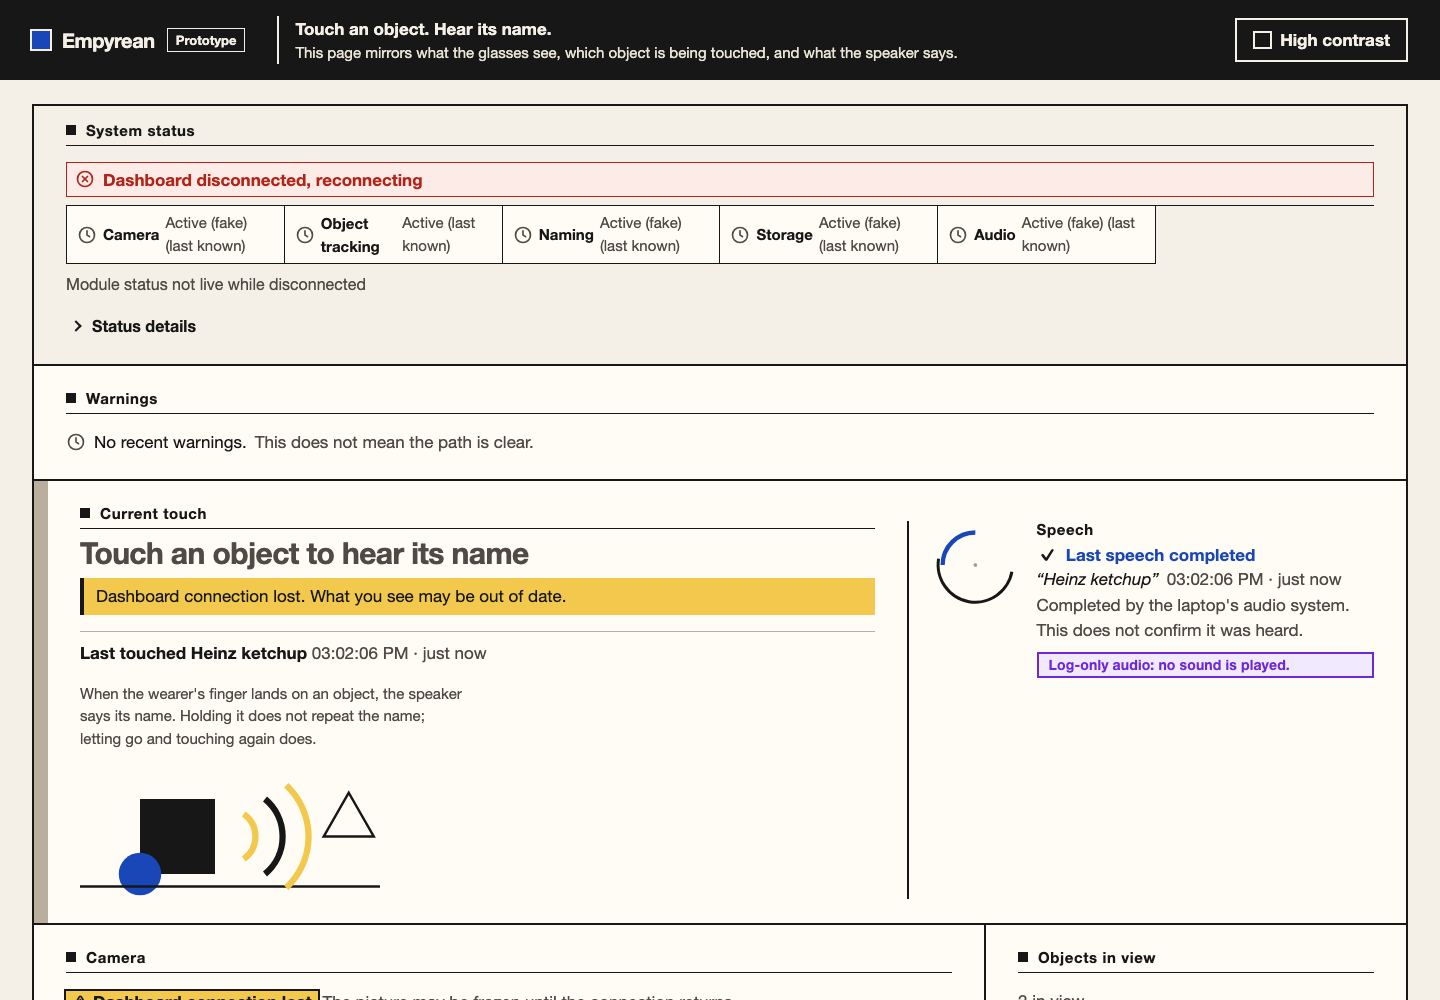
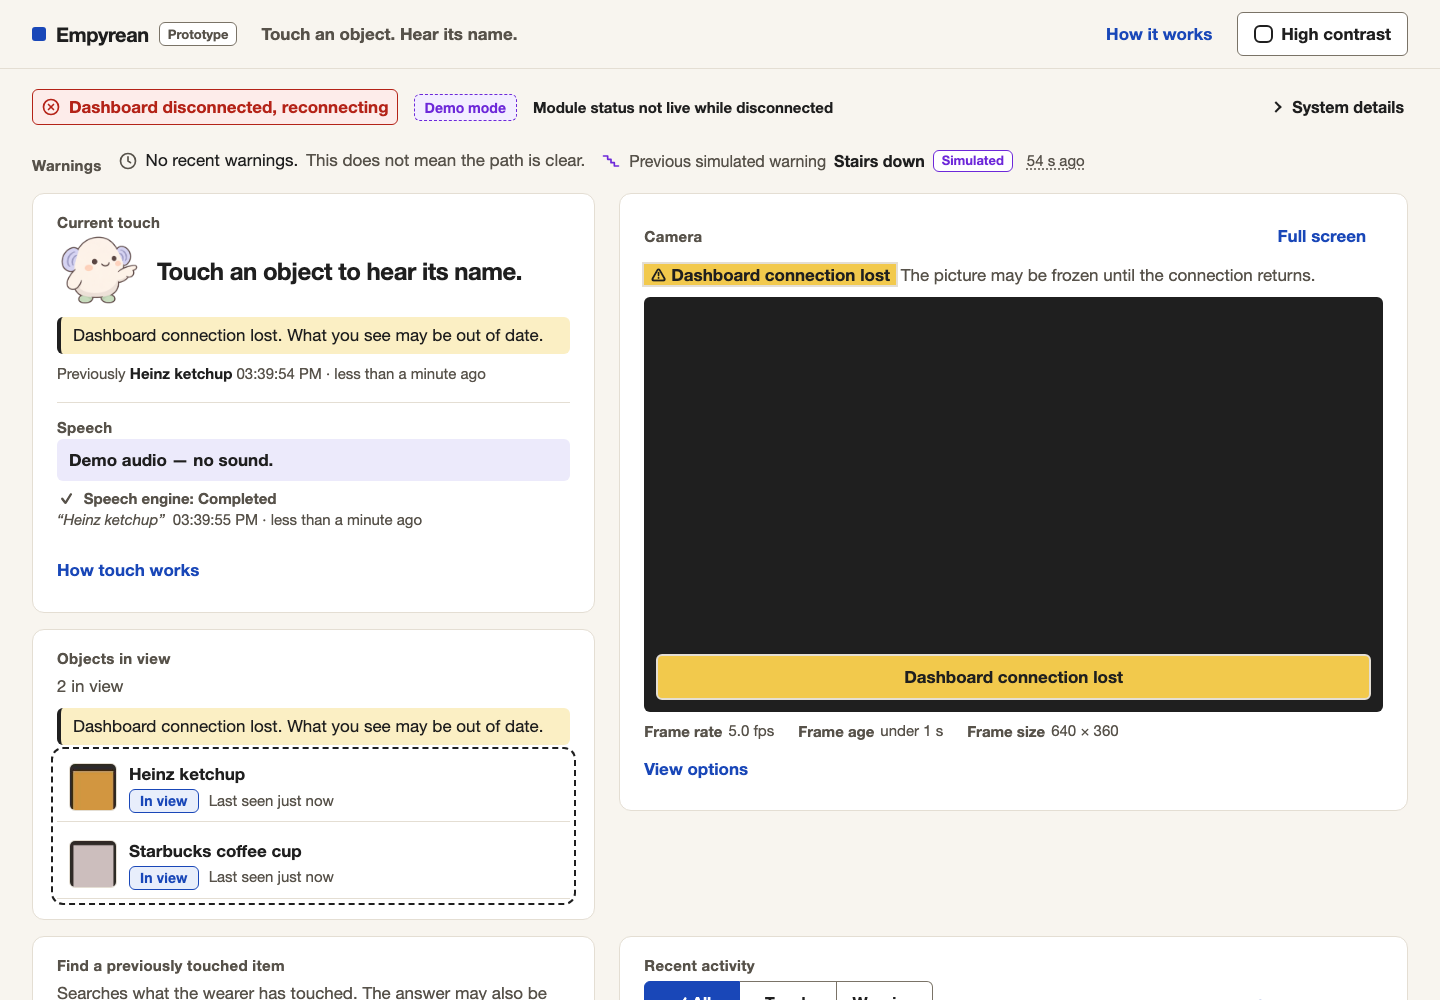
Document friendly clarity: before/after, two layouts, Pip assets, verification

diff --git a/docs/dashboard-redesign/friendly/explorations/b-band.css b/docs/dashboard-redesign/friendly/explorations/b-band.css
@@ -1,0 +1,21 @@
+/* Alternative B: a compact full-width touch band (name left, speech right), then the
+   camera with objects and search beside it. Injected for comparison only. */
+@media (min-width: 64em) {
+  .app-layout {
+    grid-template-columns: minmax(0, 7fr) minmax(0, 5fr) !important;
+    grid-template-areas:
+      "health  health"
+      "warning warning"
+      "touch   touch"
+      "camera  objects"
+      "camera  find"
+      "events  demo" !important;
+  }
+  .experience-touch {
+    display: grid !important;
+    grid-template-columns: minmax(0, 1.4fr) minmax(16rem, 1fr);
+    column-gap: 32px;
+  }
+  .experience-touch > :not(.experience-speech) { grid-column: 1; }
+  .experience-touch > .experience-speech { grid-column: 2; grid-row: 1 / span 6; border-top: 0 !important; margin-top: 0 !important; padding-top: 0 !important; border-left: 1px solid var(--color-border); padding-left: 24px !important; }
+}

diff --git a/docs/dashboard-redesign/friendly/README.md b/docs/dashboard-redesign/friendly/README.md
@@ -1,0 +1,136 @@
+# Friendly clarity: a calmer, clearer Empyrean dashboard
+
+Branch `design/friendly-clarity`, created from `539f0de0193876255baada563d09f06aacbd1a74`
+(`design/bauhaus-polish`), the commit serving http://localhost:8002 when this work
+started (process cwd `../empyrean-bauhaus`, clean tree; its full checks had passed).
+The engine, backend services, contracts, shared store, WebSocket, camera stream,
+audio telemetry and history queries are unchanged.
+
+## 1. What the page answers first
+
+At 1440 × 900, with no scrolling: **what is being touched** (name at 52 px with its
+thumbnail and Touching/Holding badge), **what the audio system did** (directly
+under the name), **what the camera shows** (a 740 × 415 picture beside it), and
+**whether something needs attention** (one status line and one warning line
+above). Before, the system status and an inactive warning took about 400 px and
+the camera started below the fold (`before/before-1440x900.png` vs
+`after/after-1440x900.png`).
+
+## 2. Hierarchy changes
+
+| Problem (before) | Change |
+|---|---|
+| Tall system-status block with five boxed chips | One line: connection, a dashed violet **Demo mode** tag when any module is a fake, and the summary. Every chip and detail is kept under **System details** |
+| Inactive warning took a full section | One quiet line ("No recent warnings. This does not mean the path is clear."). An active real hazard still expands at once, pins to the top and hides Pip; a later simulation stays below it, smaller and dashed |
+| Camera below the first screen | Touch and speech on the left (5 fr), camera on the right (7 fr); objects under touch; search and activity below |
+| Heavy black borders everywhere | No page cage: transparent grid, light surfaces, 1 px warm dividers, 12 px corners. Focus rings (3 px blue, 4 px in high contrast) and selected states stay strong |
+| Instructions repeated in three places | Header tagline only on wide screens; the long touch explanation moved into **How touch works**; the camera's "recorded clip" sentence folded into its title and alt text; search help shortened to one sentence |
+| Secondary controls as loud as primary ones | Search is the only filled button in its area; Full screen, Pause and Clear are quiet text buttons; actual size, overlays and the legend are in **View options** |
+| Tall empty search compartment, equal-height rows | Rows size to content (`align-items: start`); the search panel is 209 px |
+| Ambiguous speech ring | Removed (and its Rive runtime and asset). Speech is words: **Queued, Speaking, Completed, Interrupted, Failed** for real audio; **"Demo audio — no sound."** leads for fake audio; **"No sound — the speech engine is unavailable, so phrases are only logged."** for log-only audio; **"Audio status unavailable"** without telemetry. Nothing is inferred from a touch |
+| "Last speech completed" louder than "no sound played" | In demo or log-only mode the no-sound sentence leads on a pastel wash and the engine status follows in small grey text; "does not confirm it was heard" is shown only for real audio |
+| Large, uninformative empty-touch art | Pointing Pip (76 px) beside "Touch an object to hear its name." |
+| Camera alt text fixed | Alt text follows the state: recorded demo clip, live camera, out of date (with seconds), stream disconnected, offline, or waiting |
+
+## 3. Two compact layouts compared (same live data, 1440 × 900)
+
+| | A. Touch beside camera (`explorations/a-1440x900.png`) | B. Touch band, camera below (`explorations/b-1440x900.png`, `b-band.css`) |
+|---|---|---|
+| Touched object | immediate, top left | immediate, full width |
+| Speech status | directly under the name | beside the name |
+| Camera on the first screen | yes, full picture | only the top third; the band's right half is mostly empty |
+| Wasted space | none visible | about 40 % of the band |
+
+**Chosen: A.** It answers all four questions without scrolling and wastes no space.
+
+## 4. Visual direction
+
+Bauhaus discipline kept in alignment, type and selective asymmetry (5:7 columns,
+one big name); execution softened. Tokens (`styles/tokens.css`, every pair measured):
+
+| Token | Value | Contrast |
+|---|---|---|
+| page / surface | `#F8F5EF` / `#FFFFFF` | — |
+| text / secondary | `#1F1F1F` / `#57524A` | 15.2:1 / 7.1:1 on page |
+| control border | `#7A7367` | 4.3:1 or more |
+| primary action and touch | `#1947B8` | 7.3:1; white on it 8.0:1 |
+| pastel lavender / mint / peach | `#ECEAFB` / `#E4F3EA` / `#FDEBE2` | backgrounds and illustration only; secondary text on lavender 6.5:1 |
+| hazard / simulation | `#B42318` / `#6D28D9` (dashed) | 6.6:1 / 6.5:1 |
+
+High-contrast light keeps black ink, white paper, 2 px control edges and 4 px focus.
+
+## 5. Pip assets
+
+Source: the supplied sheet
+`/Users/richardlan/Documents/Codex/2026-11-14/referenced-chatgpt-conversation-this-is-an/outputs/empyrean-pip-mascot-poses.png`
[1 lines of base64/hex data omitted]
+Prepared by `tools/extract_pip.py` (re-runnable):
+
+- Each pose is the one connected shape in the sheet's alpha channel. Everything
+  else is dropped: 3,929 other fragments, 3,891 of them under 50 pixels, all
+  near-transparent (the stray coloured dots visible on the sheet).
+- Body alpha in the sheet tops out at 254; pixels at 200 or above are made fully
+  opaque so Pip is not faintly see-through; the anti-aliased outline keeps its
+  partial alpha.
+- Cropped with 4 % padding, resized on premultiplied colour (no dark halo), and
+  checked on the page colour, white and a dark checkerboard: one shape each,
+  fully transparent edges, no specks (`test_friendly.py`).
+
+| File | Pose | Size | Placement (alt="", words beside it carry the meaning) |
+|---|---|---|---|
+| `assets/pip/pip-wave.png` | waving, eyes open | 201 × 192 (shown 84 × 80) | **How it works** welcome panel in the header, closed by default |
+| `assets/pip/pip-point.png` | pointing | 211 × 192 (shown 84 wide) | beside "Touch an object to hear its name." when nothing is touched |
+| `assets/pip/pip-sit.png` | seated | 203 × 192 (shown 68 × 64) | empty Recent activity |
+| `assets/pip/pip-peek.png` | sign-holding, cropped above the sign | 445 × 189 (shown 216 wide) | **How touch works**: Pip peeks over an HTML sign whose text is real and grows with it |
+
+Not shipped: the closed-eyes "happy" pose (so no pose reads as reassurance) and
+the narrow sign pose. Rules enforced: Pip is decorative everywhere, 64–96 px in
+panels, at most one prominent Pip at a time, hidden during an active real
+hazard (`layout.css`), never in the camera feed, thumbnails or history. No Pip
+pose is tied to speech, so nothing suggests listening or microphone input.
+
+## 6. Earlier resources
+
+- **Rive** (`awesome-rive`): the speech ring was removed because it was ambiguous;
+  with it went `@rive-app/canvas`, the WASM, the recoloured asset, the recolouring
+  tool and their tests (2.8 MB less to load). No new Rive asset was added: no
+  candidate in the MIT runtime repos explained touch-to-speech better than words.
+- **21st.dev**: kept where it helps. The Search arrow nudge and loading square
+  (cnippet "sliding", MIT) and the sliding filter bar (alexisroe "segmented",
+  MIT). The circle fill (Magic UI, MIT) remains only on the few outlined
+  secondary buttons; quiet buttons have no motion. Everything is off under
+  reduced motion.
+
+## 7. Verification
+
+Commands and results on the final commit (see the handoff line in `DEVLOG.md`):
+
+| Check | Result |
+|---|---|
+| `pytest -q` | 288 passed, 1 skipped (live Tiger Data test; no database URL) |
+| `ruff check .` | clean |
+| `node --test` agent1 / agent2 / agent3 / agent4 | 42 / 21 / 16 / 12 |
+| `tests/ui/friendly/friendly-check.mjs` (four live servers) | 48 / 48 |
+| `tests/ui/agent4/integrated-check.mjs` normal / hazard / unavailable / disconnect | 49/49, 8/8, 4/4, 6/6 |
+
+Demo inputs used where hardware or services are absent, all labelled:
+`python -m app --fake vision namer storage audio` (recorded clip, fake namer,
+in-memory store, printed speech), `--fake … hazard` (scripted hazards),
+`--only dashboard --fake scene` (camera offline, nothing running), and
+`tests/ui/friendly/demo_harness.py`, which replays real-mode speech statuses
+(queued, speaking, completed, failed) and log-only audio without speaking, stops
+and restarts the recorded clip (stale, offline, recovery), or runs the real
+storage module with no database (search unavailable). One display-only input:
+a long name pushed into the browser store to check wrapping.
+
+Covered live: active touch and no touch; real, fake, log-only, failed and
+unavailable audio; active real hazard then a simulation; camera live, stale,
+offline and recovery; empty (cleared) and populated history with grouped
+repeats; search found, not found, unavailable, and timed out with hanging POST
+and GET; long names; both light themes; keyboard (skip link, focus ring on every
+control reached); reduced motion; 360, 768, 1440 px and 720 CSS px at 2×;
+contrast of every visible text element in both themes.
+
+**Not verified:** the physical camera, audible speech or alarm, Grok, Tiger Data,
+screen readers, Firefox, Safari and real browser zoom. Fake-backed checks do not
+establish any of them.

diff --git a/DEVLOG.md b/DEVLOG.md
@@ -72,6 +72,12 @@ The approved stack, repeated here so every log reader has it. Changes go through
 
 ## Entries
 
+### 2026-11-14 17:30, Dashboard friendly clarity (design/friendly-clarity), Claude Code
+**Changed:** Branch `design/friendly-clarity` from `539f0de` (`design/bauhaus-polish`, the build serving :8002). Status is one line with a Demo mode tag and a "System details" disclosure; an inactive warning is one line; touch and speech sit beside the camera so both are on the first screen; the object name leads with its thumbnail and state; speech uses plain Queued/Speaking/Completed/Interrupted/Failed and leads with "Demo audio — no sound." (or the log-only sentence) when no sound can play; camera alt text follows the real state; advanced camera controls are in "View options"; quiet secondary controls; no page-wide border cage; softened tokens with pastel accents; Pip mascot assets cut from the supplied sheet (`tools/extract_pip.py`) in four decorative placements, hidden during an active real hazard. Removed the Rive speech ring with its runtime and asset. Engine, APIs and contracts unchanged.
+**Tested:** full `pytest` 288 passed, 1 skipped; `ruff` clean; node 42/21/16/12; `tests/ui/friendly/friendly-check.mjs` 48/48 on four live servers (fakes and the labelled `tests/ui/friendly/demo_harness.py`); integrated live checks normal 49/49, hazard 8/8, unavailable 4/4, disconnect 6/6. No camera, speaker, Grok or Tiger Data.
+**Decisions:** layout A (touch beside camera) over B (full-width band), which left the camera mostly below the fold. Log-only audio says "No sound — the speech engine is unavailable…" rather than "Demo audio", because a real deployment can be in that state.
+**Teammates need to know:** `tests/ui/friendly/demo_harness.py` is test input only; never treat its speech or camera gaps as evidence.
+
 ### 2026-11-14 16:30, Dashboard Bauhaus redesign (design/bauhaus-polish), Claude Code
 **Changed:** Branch `design/bauhaus-polish` from integration commit `81bef40` (verified complete first). New Bauhaus token set (ivory, near-black, blue action, red only for hazards and errors, yellow fills with black outline, dashed violet simulation, square corners); instrument-panel composition with a full-width touch band; a Rive speech signal (`components/speech-signal.js`, recoloured MIT `progress.riv`, vendored `@rive-app/canvas@2.47.1`) that moves only for real speaking telemetry; hand-authored SVG artwork in three slots; three interactions adapted from MIT 21st.dev components in plain CSS. Engine, APIs and contracts unchanged.
 **Tested:** full `pytest`, `ruff`, node tests (agent1–4 and bauhaus), the integrated live checks (normal 49/49, hazard 8/8, unavailable 4/4, disconnect 6/6) and `tests/ui/bauhaus/bauhaus-check.mjs` 25/25 (Rive behaviour and fallbacks, local-only requests, interactions, AA contrast of all visible text in both themes, frame time p95 16.7 ms). No camera, speaker, Grok or Tiger Data.

diff --git a/docs/dashboard-redesign/design-system.md b/docs/dashboard-redesign/design-system.md
@@ -1,8 +1,9 @@
 # Empyrean dashboard design system
 
-> **Superseded palette (design/bauhaus-polish, 2026-11-14).** The token *names*, layering, mount
+> **Superseded palette (design/friendly-clarity, 2026-11-14).** The token *names*, layering, mount
 > contract and announcement policy below still apply. The colours, geometry and composition were
-> replaced by the Bauhaus system: see [bauhaus/README.md](bauhaus/README.md) and `styles/tokens.css`.
+> replaced, first by the Bauhaus system ([bauhaus/README.md](bauhaus/README.md)) and then by the
+> softened friendly-clarity system ([friendly/README.md](friendly/README.md)); see `styles/tokens.css`.
 
 
 Owner: Agent 1 (`design/light-foundation`). Agent 4 reconciles this document with the integrated API.
